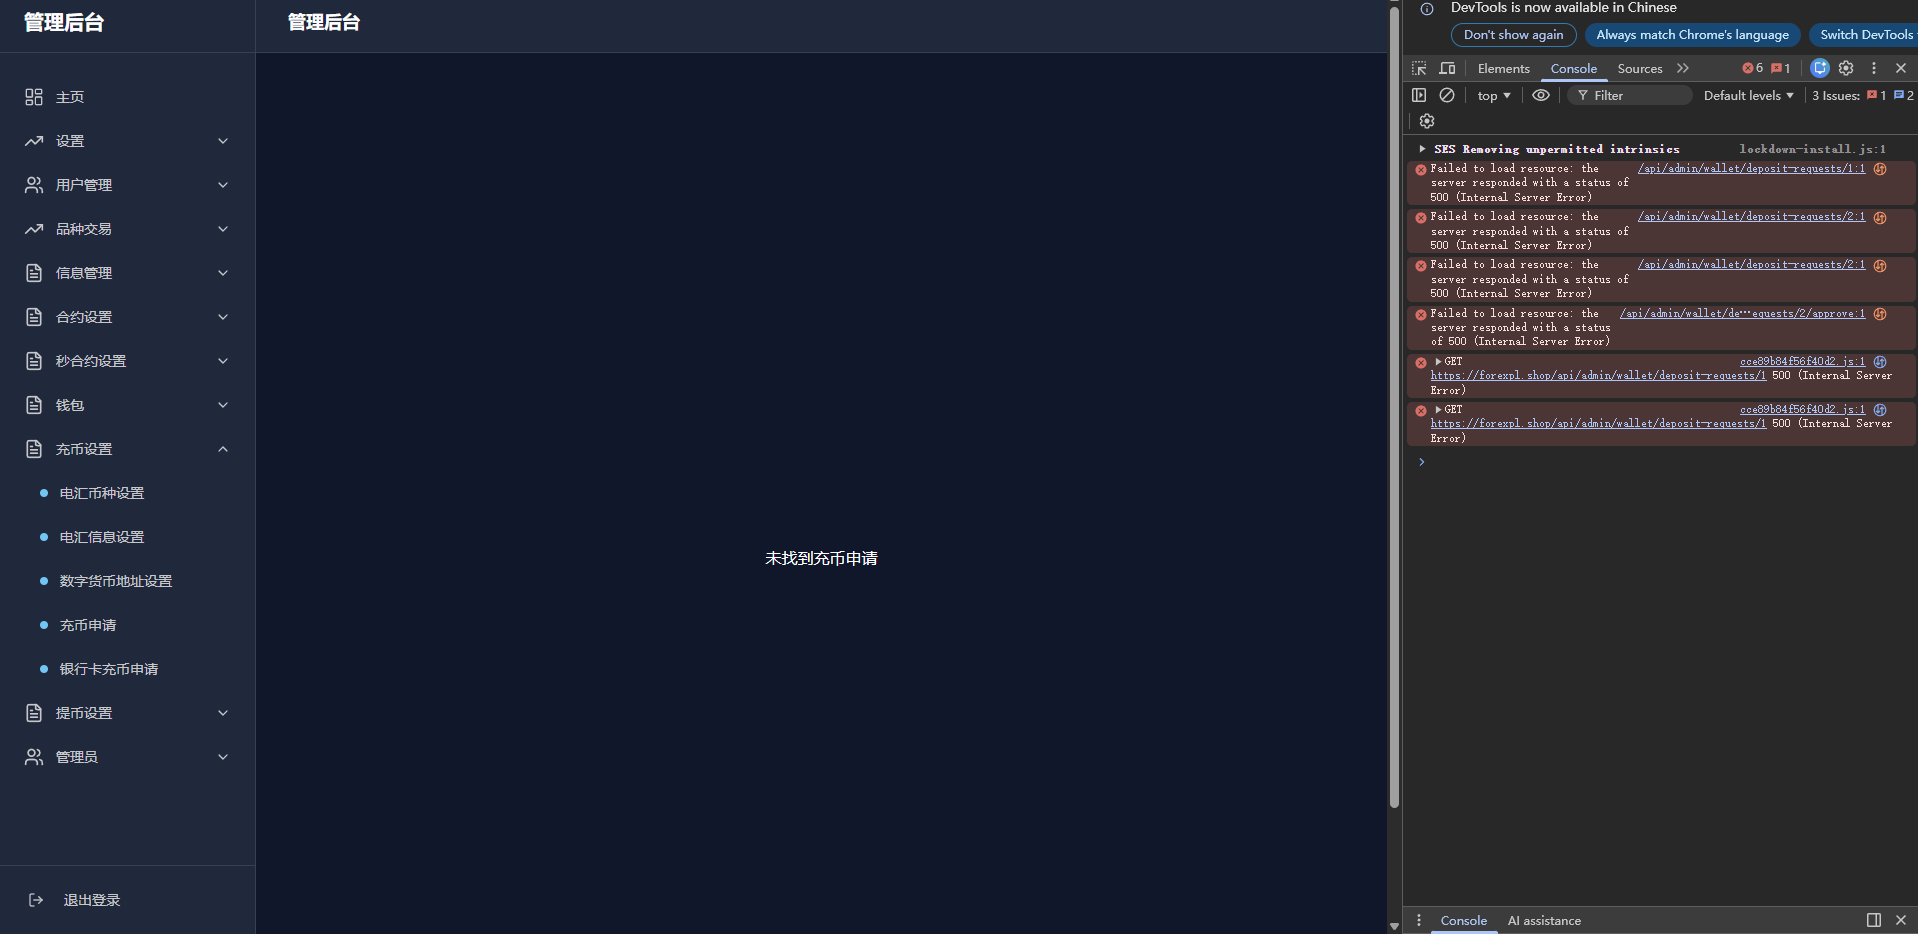
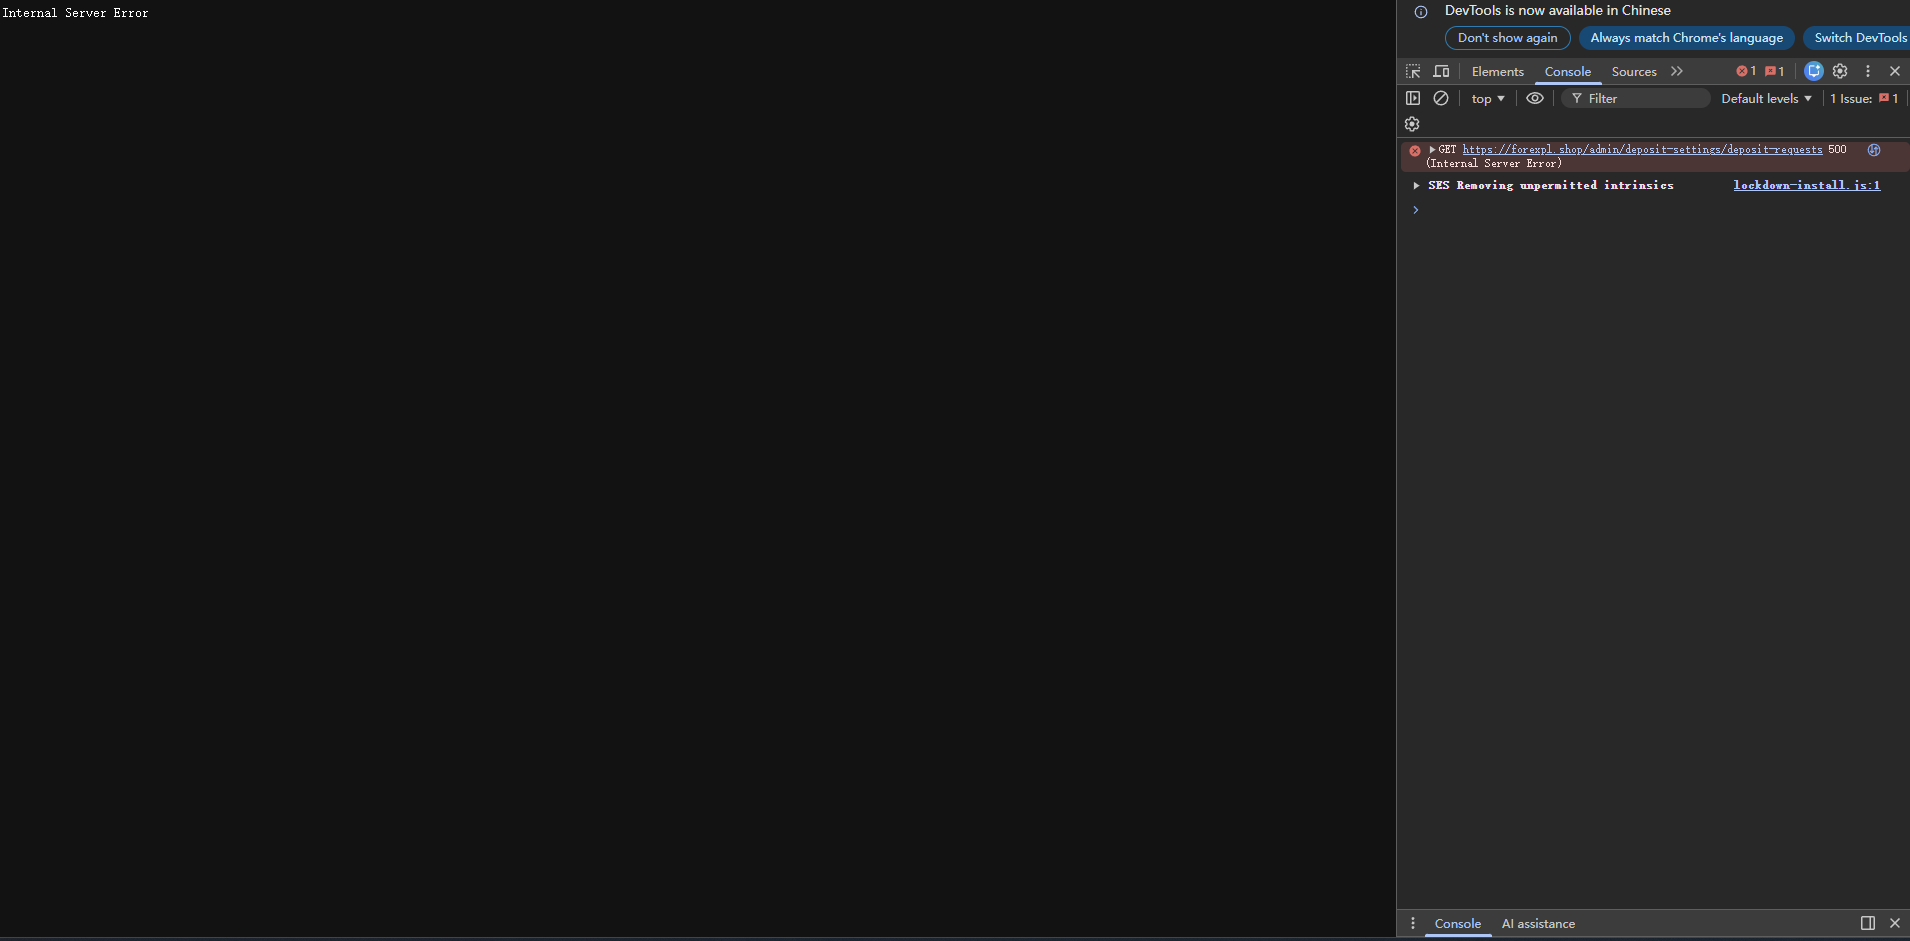
fix: 修复充币申请页面内部路径引用

Changed region(s): [[0.0, 0.0, 1.0, 1.0], [0.4016, 0.5899, 0.4634, 0.621]]

diff --git a/src/app/admin/deposit-settings/deposit-requests/page.tsx b/src/app/admin/deposit-settings/deposit-requests/page.tsx
@@ -221,7 +221,7 @@ export default function DepositRequestsPage() {
             />
           </div>
           <Button 
-            onClick={() => router.push('/admin/wallet/deposit-requests')}
+            onClick={fetchRequests}
             className="bg-blue-600 hover:bg-blue-700"
           >
             <RefreshCw className="w-4 h-4 mr-2" />
@@ -378,7 +378,7 @@ export default function DepositRequestsPage() {
                             size="icon"
                             variant="ghost"
                             className="h-8 w-8 text-gray-400 hover:text-white"
-                            onClick={() => router.push(`/admin/wallet/deposit-requests/${req.id}/view`)}
+                            onClick={() => router.push(`/admin/deposit-settings/deposit-requests/${req.id}/view`)}
                           >
                             <Eye className="w-4 h-4" />
                           </Button>
@@ -386,7 +386,7 @@ export default function DepositRequestsPage() {
                             size="icon"
                             variant="ghost"
                             className="h-8 w-8 text-gray-400 hover:text-white"
-                            onClick={() => router.push(`/admin/wallet/deposit-requests/${req.id}`)}
+                            onClick={() => router.push(`/admin/deposit-settings/deposit-requests/${req.id}`)}
                           >
                             <Edit className="w-4 h-4" />
                           </Button>
